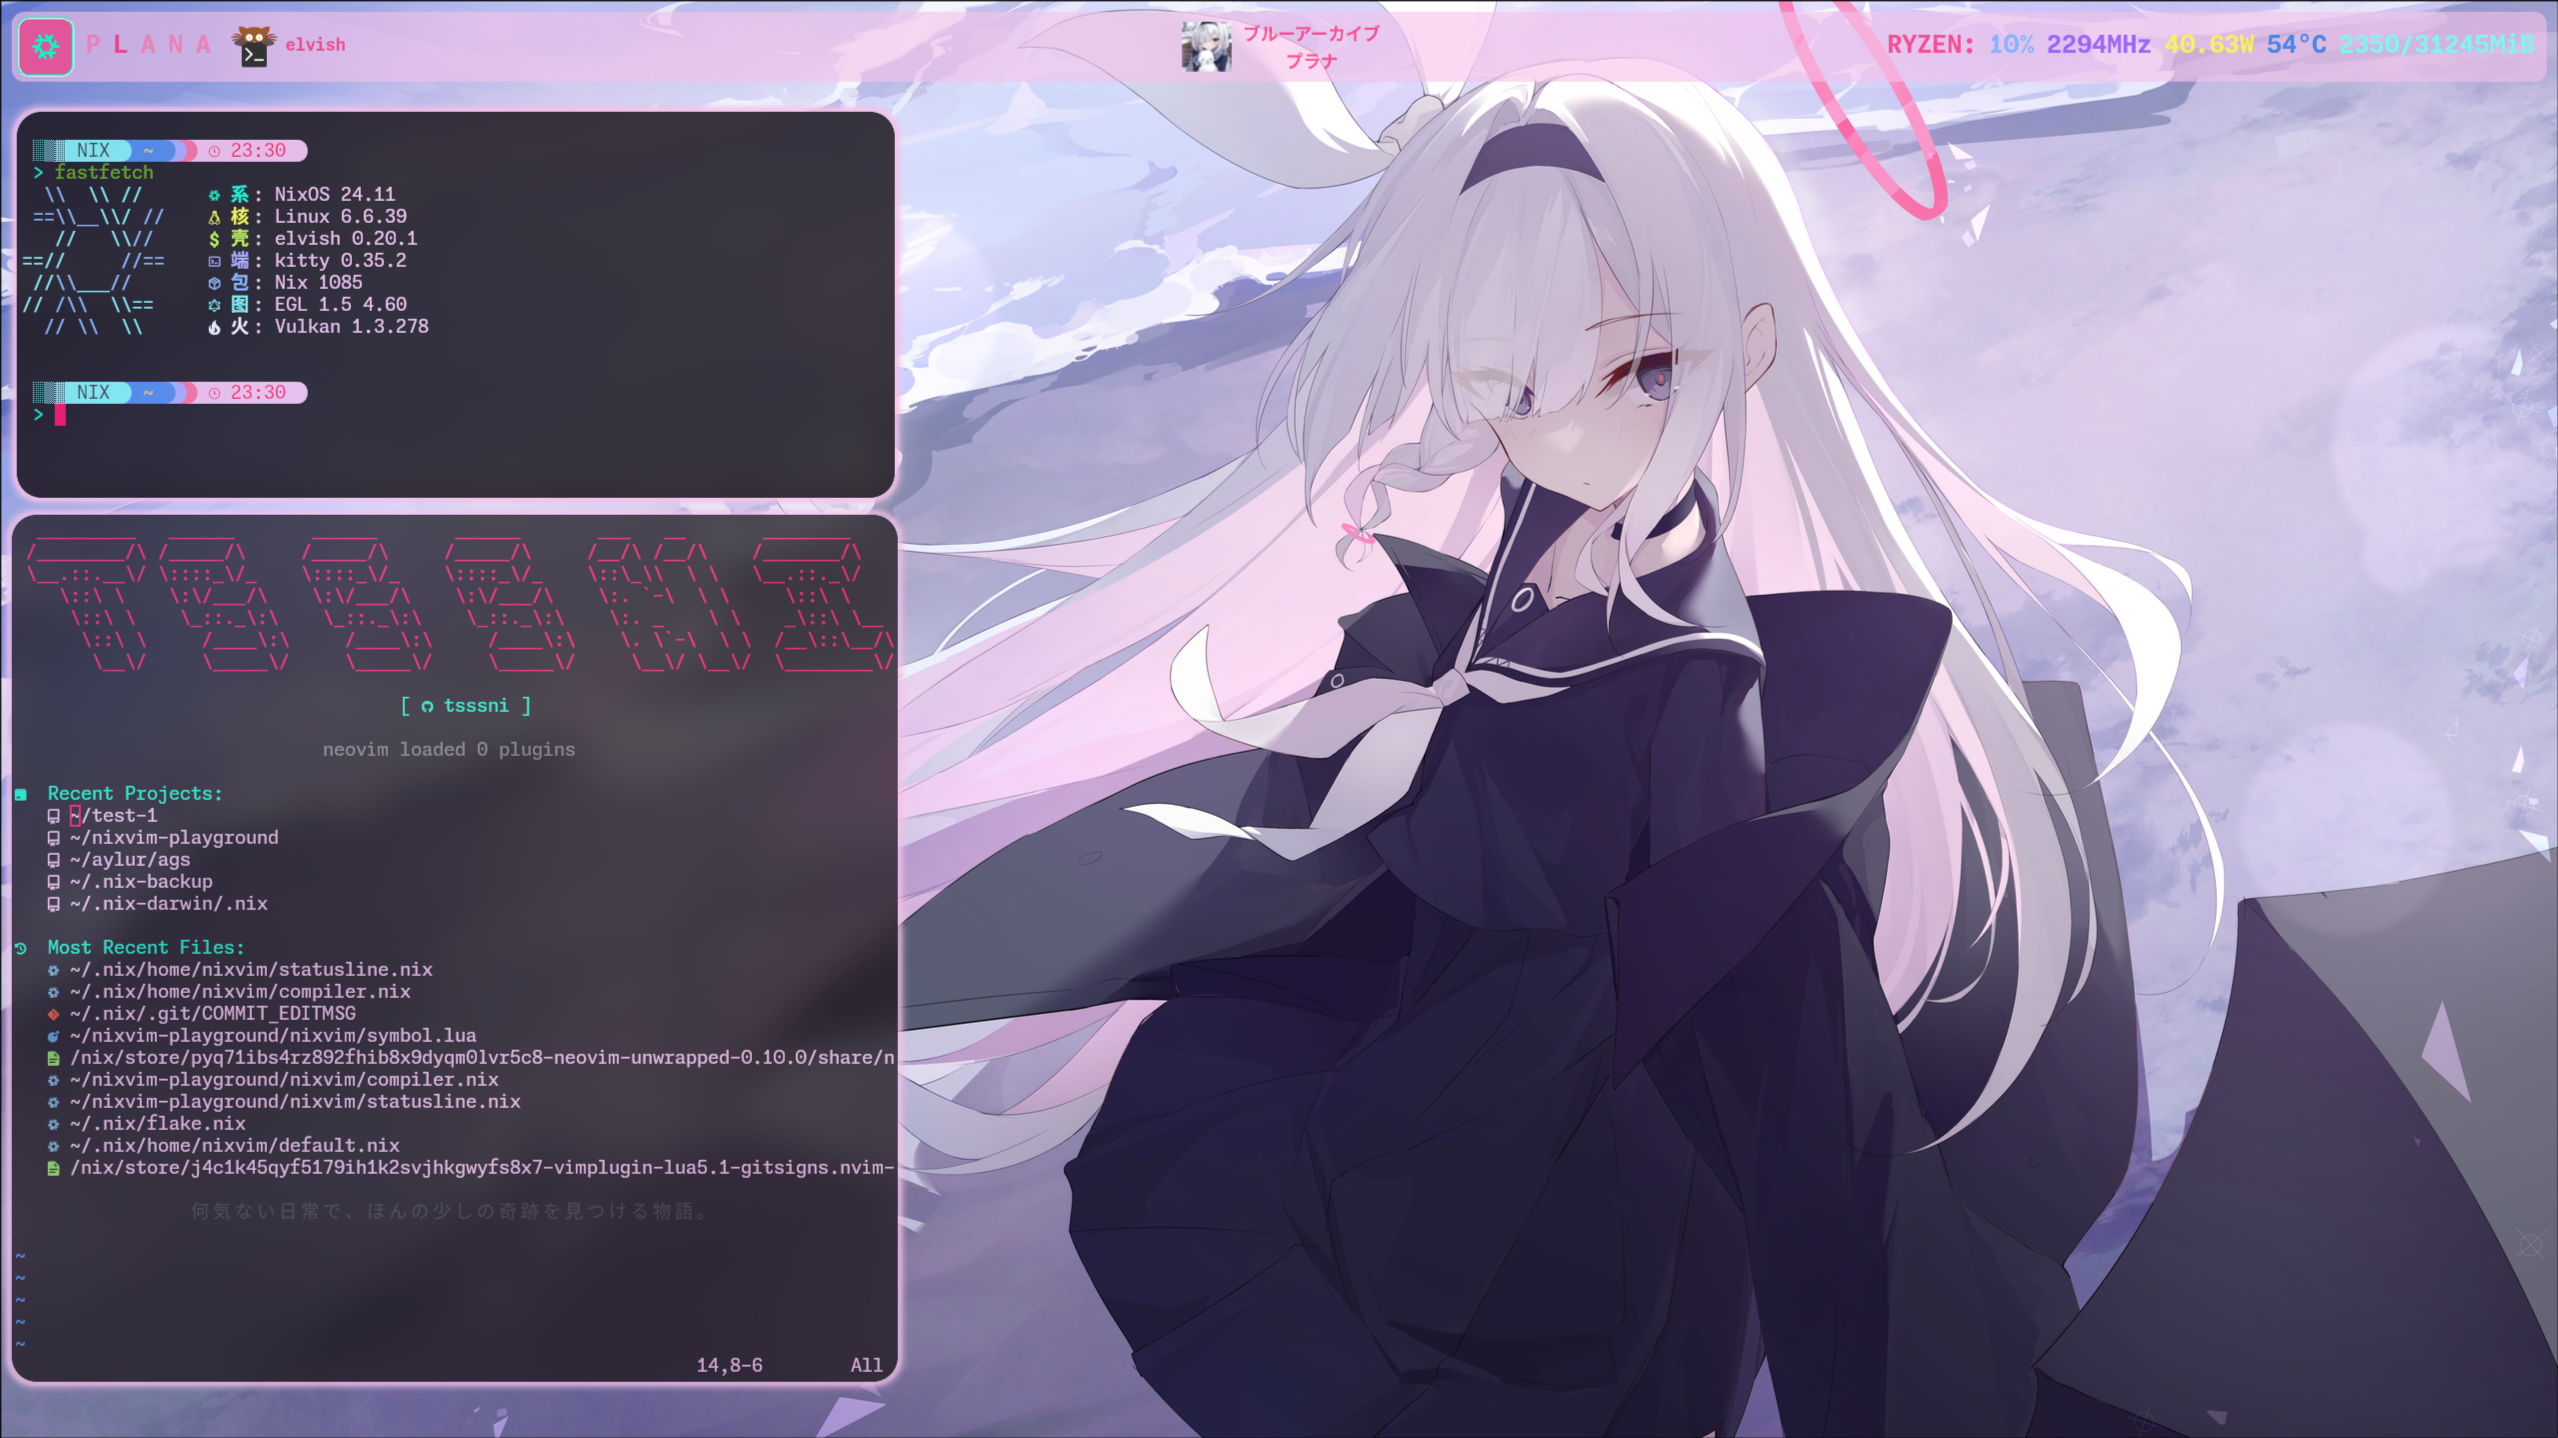
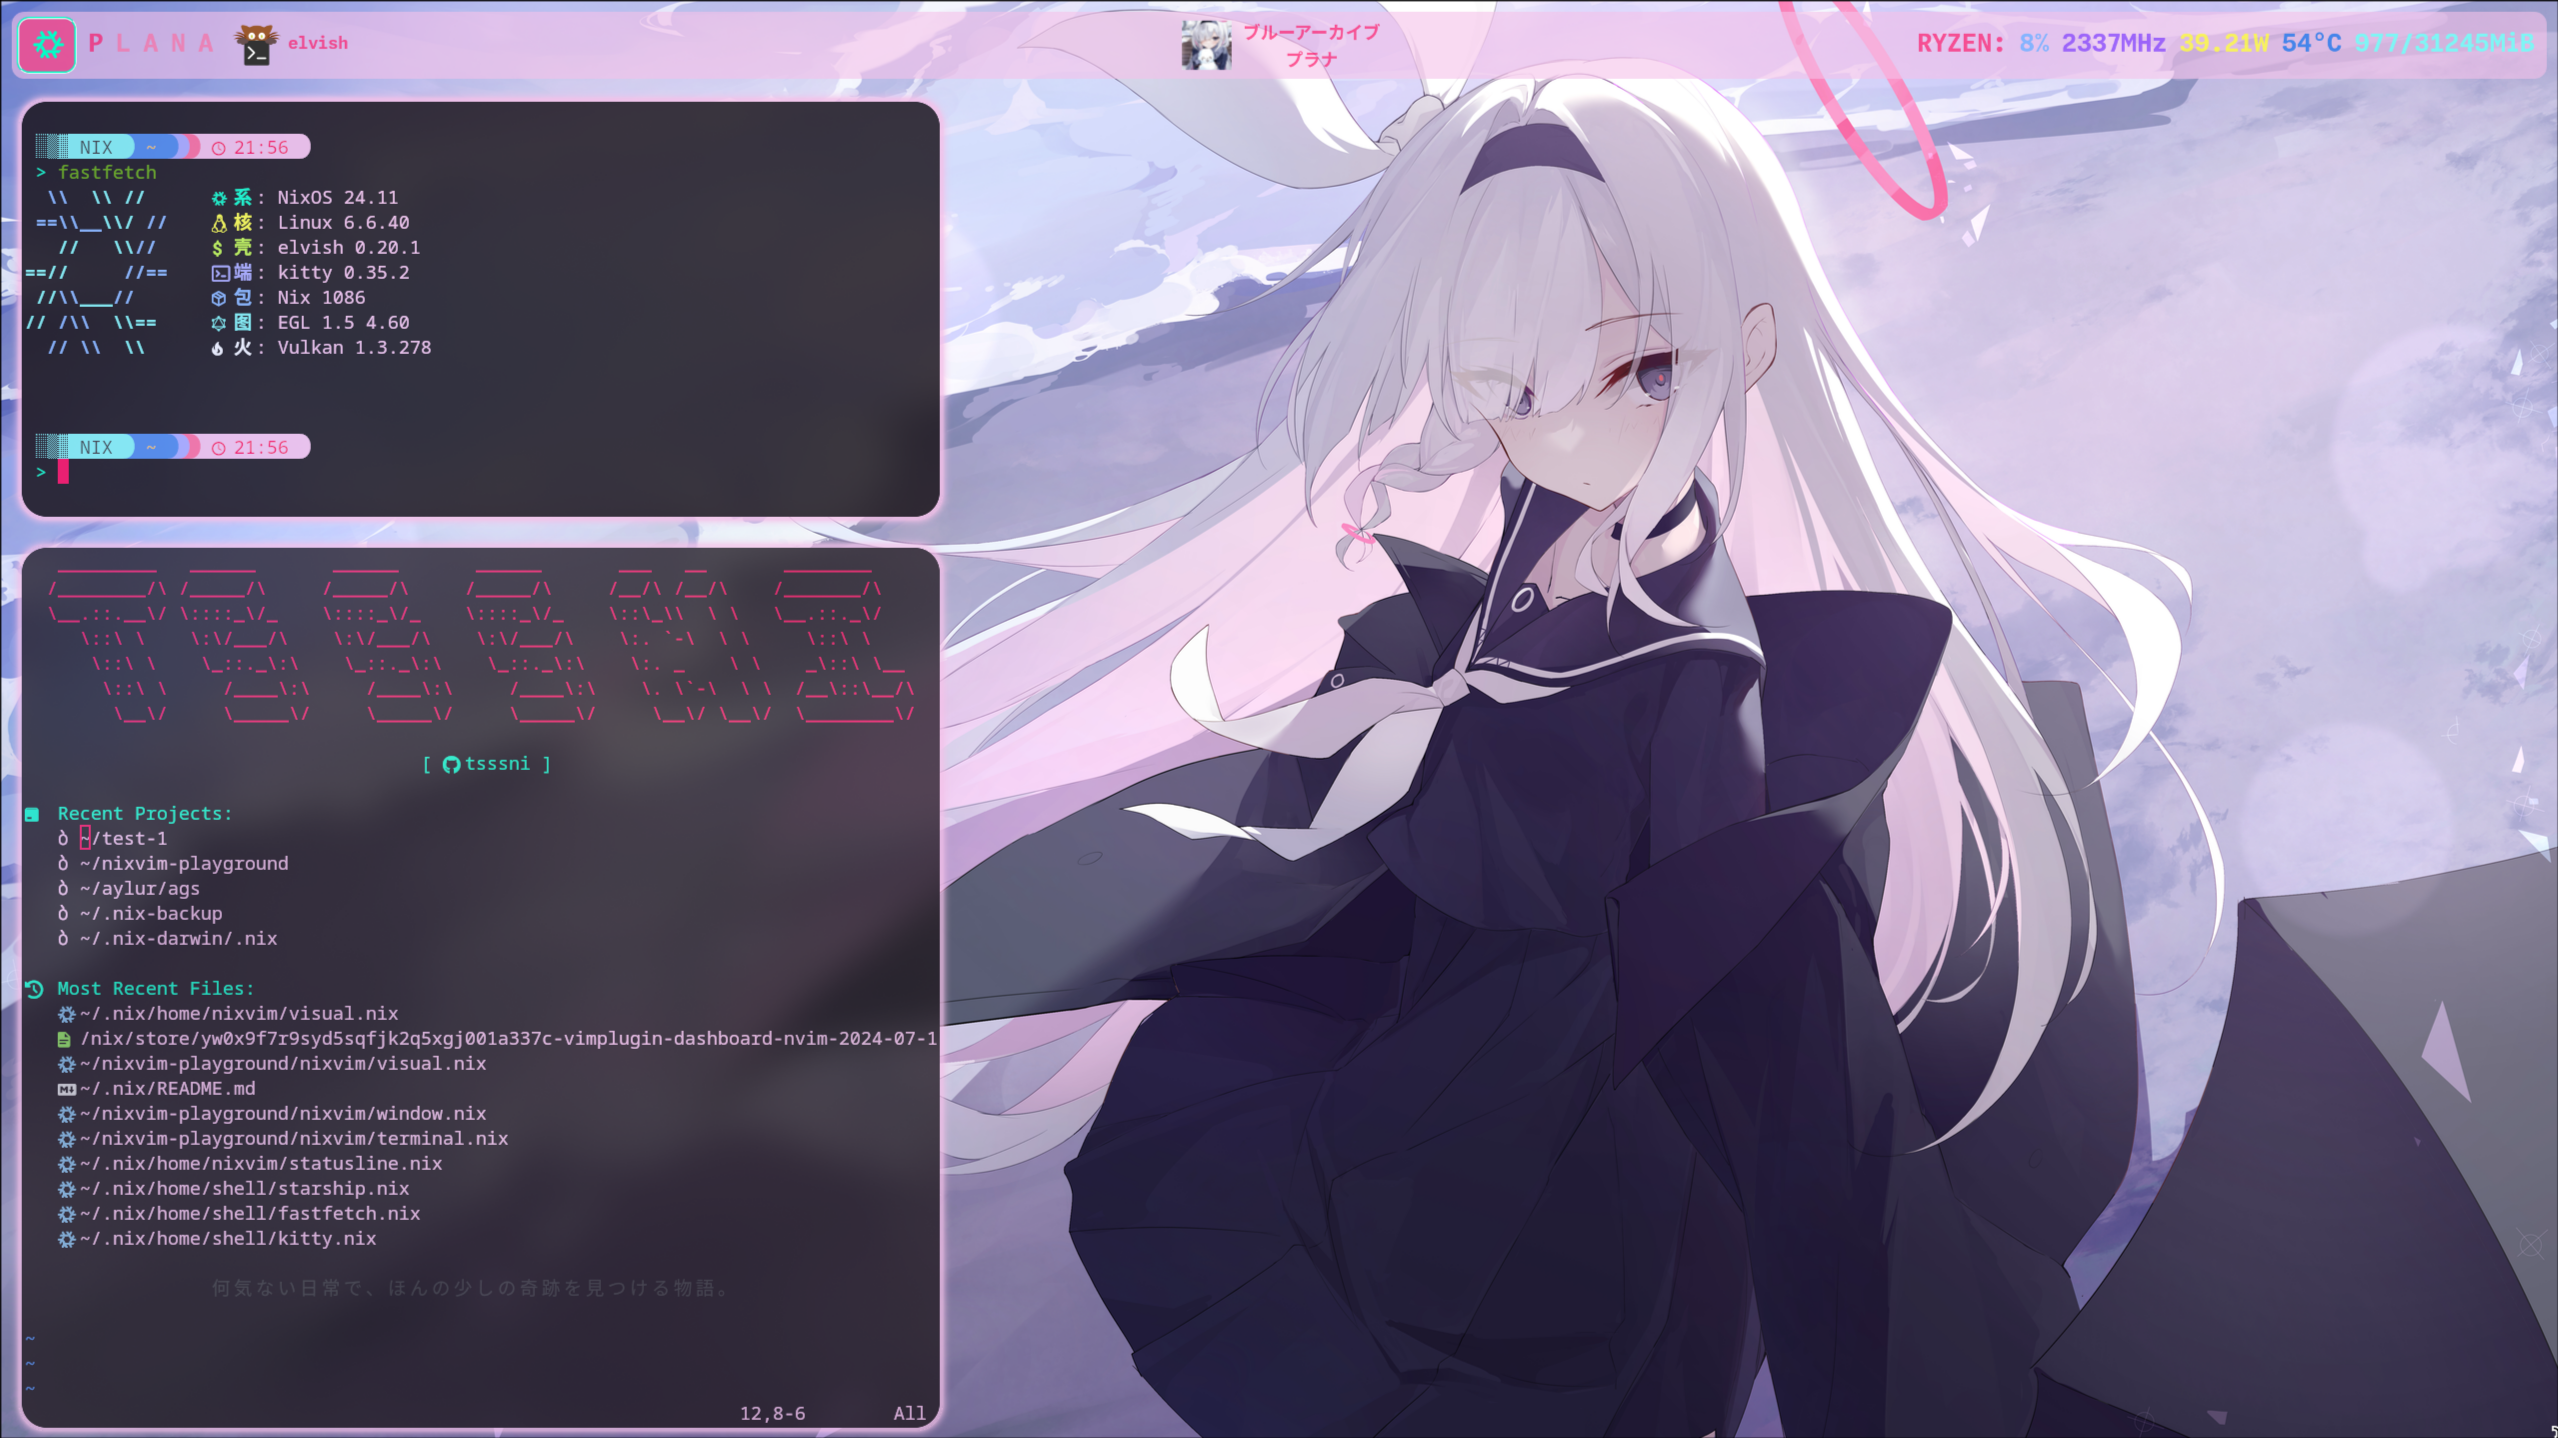
use Monaspice Nerd Font

Changed region(s): [[0.0, 0.0, 0.3706, 1.0], [0.7412, 0.0, 0.9883, 0.0612], [0.4633, 0.0, 0.525, 0.0612]]

diff --git a/home/visual/config/ags/dashboard/dashboard.scss b/home/visual/config/ags/dashboard/dashboard.scss
@@ -9,8 +9,9 @@
     color: #00ffc8;
     background-color: rgba(#ff0055, 0.5);
     border-radius: 10px;
-    font-size: 36px;
+    font-size: 30px;
     margin: 4px;
+    padding-right: 2px;
     border-width: 2px;
     border-style: groove;
     border-color: #00ffc8;
@@ -40,7 +41,6 @@
     .img {
       min-width: 40px;
       min-height: 40px;
-      // background-image: url('dashboard/music/cover.png');
       background-repeat: no-repeat;
       margin: 4px;
     }

diff --git a/home/visual/config/ags/main.scss b/home/visual/config/ags/main.scss
@@ -1,6 +1,6 @@
 * {
   all: unset;
-  font-family: "MonaspiceNe Nerd Font Mono";
+  font-family: "MonaspiceNe Nerd Font";
   font-weight: bold;
 }
 
